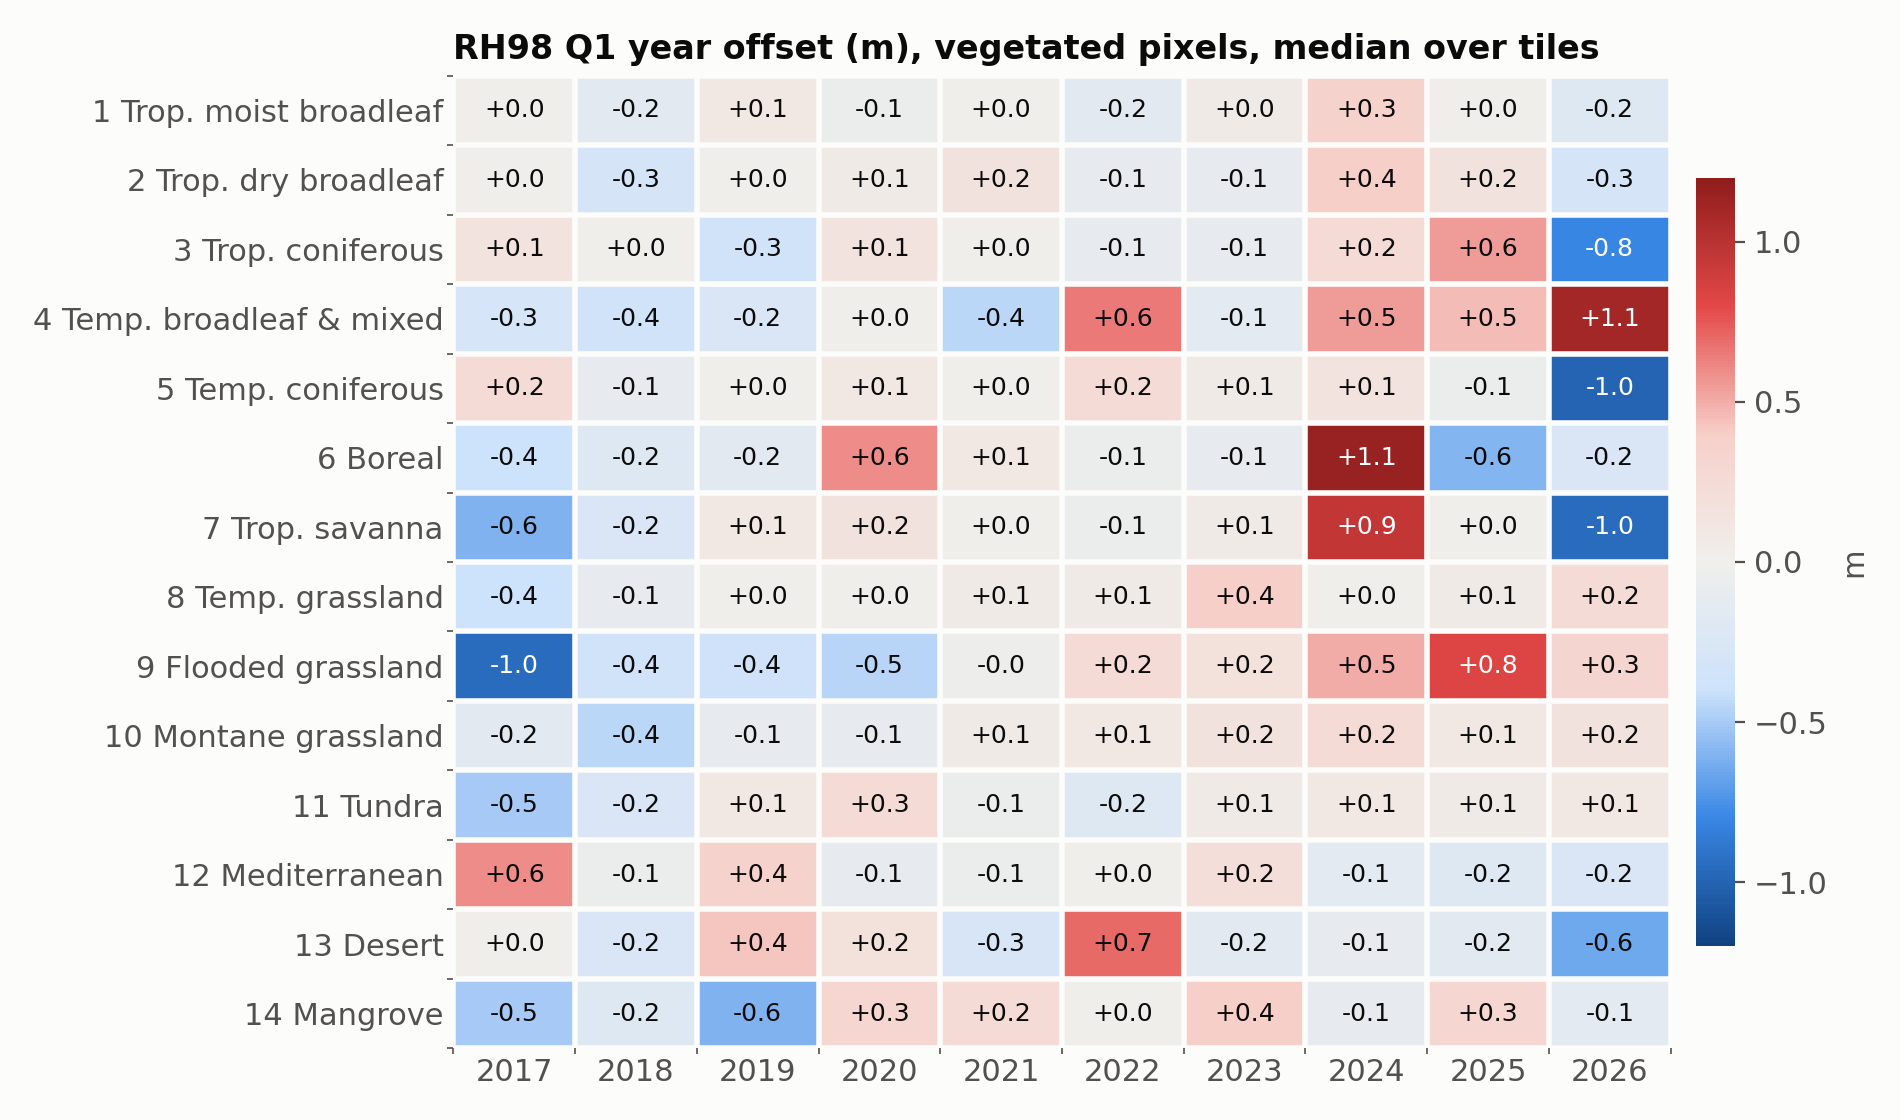
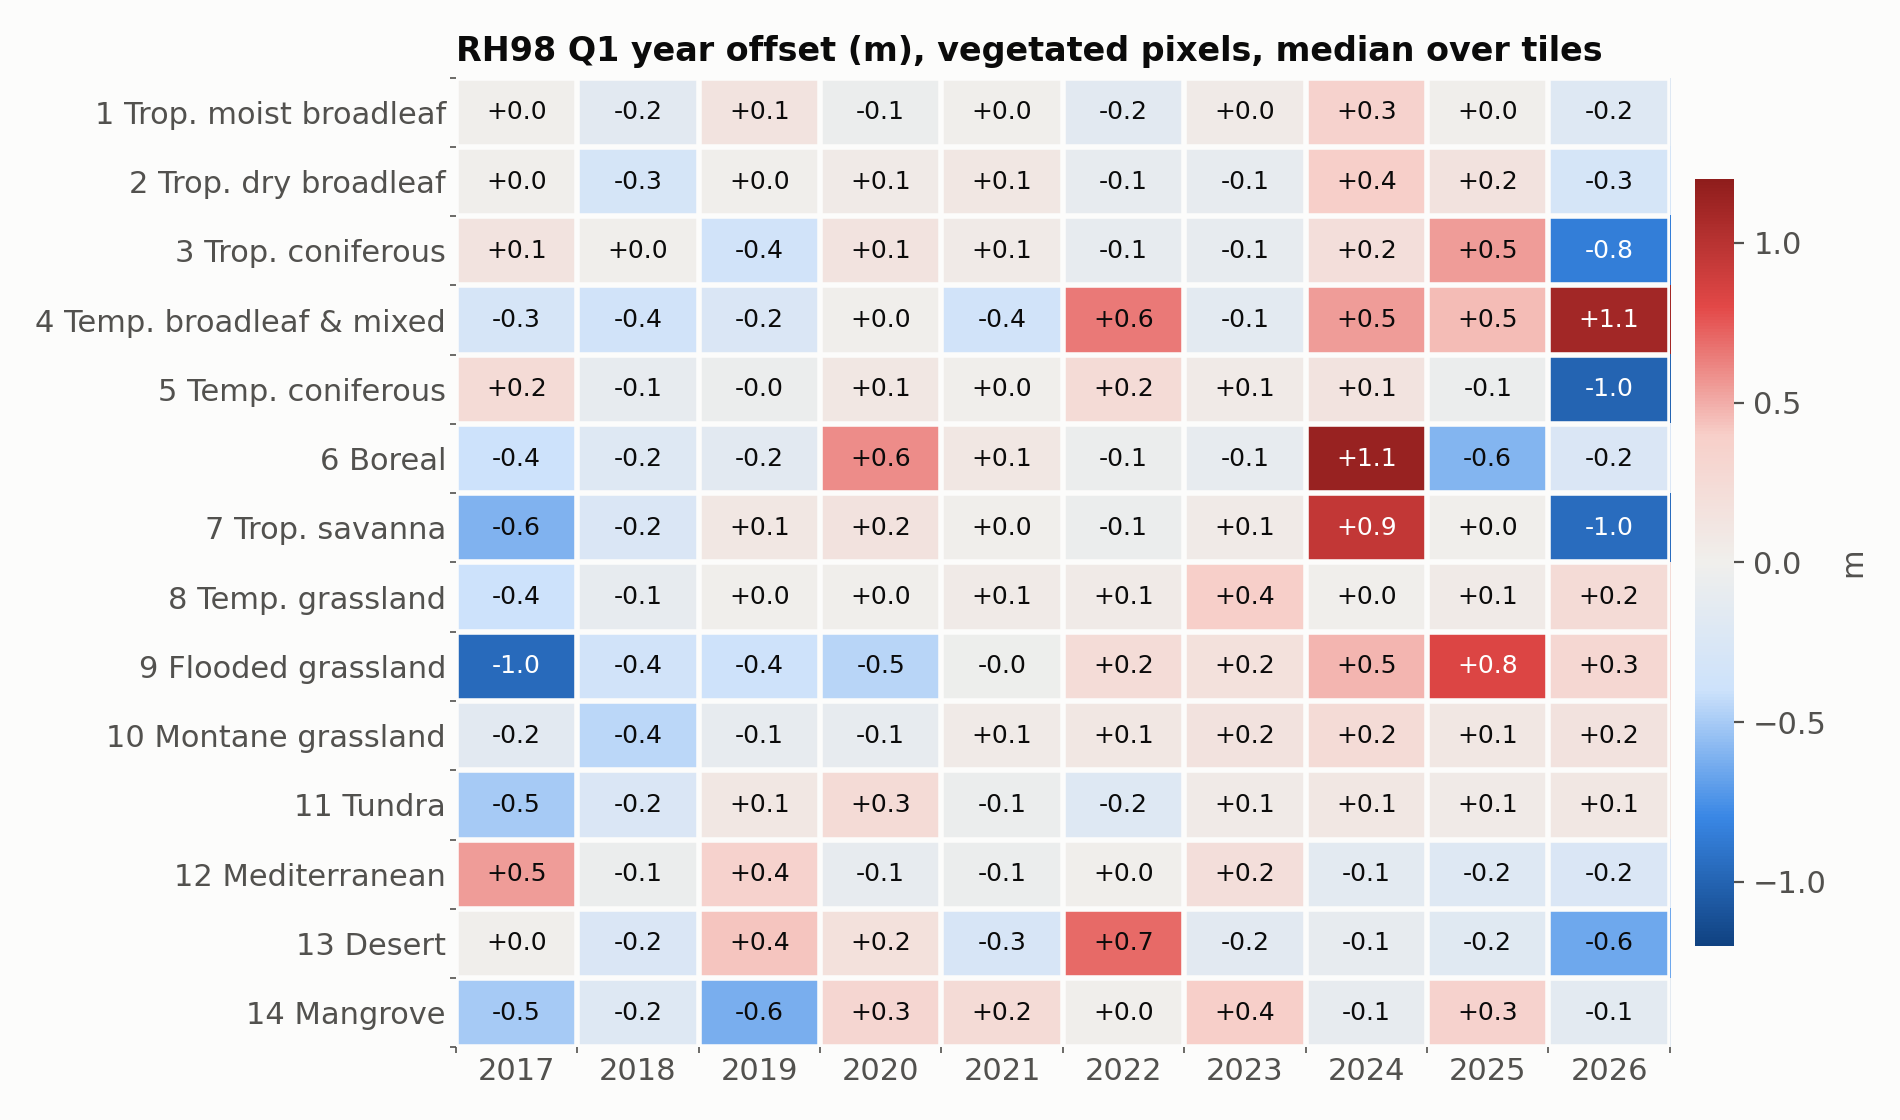
VSM stability: rerun 2019/2021 with fixed harmonization
- 24 affected tile-years re-predicted; reflectance re-read with item_has_boa_offset
  (same per-product rule as harmonize_to_old) instead of the acquisition-date rule
- year-to-year change: drop the now obsolete harmonize-affected flag
- summaries and figs 1-10 regenerated; report numbers updated

diff --git a/tools/vsm_stability.py b/tools/vsm_stability.py
@@ -1145,33 +1145,22 @@ def summarize_neighbour_change(pixels_dir: str, values_dir: str, screen_file: st
     print(f'-> {out_file}')
 
 
-def _harmonize_affected(images_file) -> set:
-    """(tile, year) whose selected images include reprocessed pre-2022 products (baseline >= 04.00),
-    i.e. inputs hit by the old harmonize_to_old (stability_images.tsv of count_stability_images)."""
-    if images_file is None:
-        return set()
-    im = pd.read_csv(Path(images_file).expanduser(), sep='\t', dtype={'baselines': str})
-    im = im[(im.year < 2022) & im.baselines.fillna('').str.contains(r'0[45]\.')]
-    return set(zip(im.tile, im.year))
-
-
 def summarize_year_to_year_change(pixels_dir: str, values_dir: str, screen_file: str, out_file: str,
-                                  disturbance_dir: str = None, images_file: str = None, years=range(2017, 2026),
+                                  disturbance_dir: str = None, years=range(2017, 2026),
                                   vegetated_rh98: float = 5., min_pixels: int = 100, forest_tree_share: float = 0.4,
                                   exclude_tile_years=(), **kwargs):
     """Year-to-year change of the yearly RH98 Q1 at fixed pixels: per tile and year t, median over
     vegetated (median over all years >= vegetated_rh98), undisturbed pixels of (t - (t-1)), whatever
     their WWF biome (the tile's majority biome is only a label).
     Is 2023 -> 2024 larger than the other one-year changes? Forest = WorldCover tree share of the
-    tile >= forest_tree_share (screen_ndvi_anomaly_tiles). `affected` marks changes that involve a
-    tile-year hit by the old harmonize rule (images_file); `release` those that involve 2020 (taken
-    from the released product, not from the current code). exclude_tile_years ('<tile>_<year>')
+    tile >= forest_tree_share (screen_ndvi_anomaly_tiles). `release` marks changes that involve 2020
+    (taken from the released product, not from the current code). exclude_tile_years ('<tile>_<year>')
     drops the changes into and out of that tile-year.
       <out_file> (tsv): tile, year (end of the change), biome, tree_share, forest, n_pixels, change,
-                        affected, release"""
+                        release"""
     vd = Path(values_dir).expanduser()
     scr = pd.read_csv(Path(screen_file).expanduser(), sep='\t').set_index('tile')
-    bad, skip, years = _harmonize_affected(images_file), set(exclude_tile_years), list(years)
+    skip, years = set(exclude_tile_years), list(years)
     rows = []
     for f in sorted((vd / 'pixel_values' / str(years[-1])).glob('*.parquet')):
         tile = f.stem
@@ -1195,13 +1184,12 @@ def summarize_year_to_year_change(pixels_dir: str, values_dir: str, screen_file:
                 continue
             rows.append(dict(tile=tile, year=y1, biome=biome, tree_share=ts, forest=bool(ts >= forest_tree_share),
                              n_pixels=int(veg.sum()), change=float(np.median(q[i, veg] - q[i - 1, veg])),
-                             affected=(tile, y0) in bad or (tile, y1) in bad, release=2020 in (y0, y1)))
+                             release=2020 in (y0, y1)))
     out = pd.DataFrame(rows)
     out_file = Path(out_file).expanduser()
     out_file.parent.mkdir(parents=True, exist_ok=True)
     out.to_csv(out_file, sep='\t', index=False)
-    for name, d in (('forest tiles', out[out.forest]), ('forest tiles, not harmonize-affected', out[out.forest & ~out.affected]),
-                    ('all tiles', out)):
+    for name, d in (('forest tiles', out[out.forest]), ('all tiles', out)):
         g = d.groupby('year').change
         print(f'{name} (change from the year before; 2020 = released product):')
         print(pd.DataFrame(dict(median=g.median(), q25=g.quantile(.25), q75=g.quantile(.75),
@@ -1439,7 +1427,8 @@ def _read_overview(href, res, tries=4):
 def _reflectance_tile_year(tile, year, ids, pts, out_file, res=80):
     """Reflectance of the selected images at the points, read from the COG overviews at `res` m
     (bands without such an overview at their native resolution). Harmonized as in the deploy
-    (acquisitions from 2022-01-25: clip at 1000, minus 1000)."""
+    (products with BOA_ADD_OFFSET, see item_has_boa_offset: clip at 1000, minus 1000)."""
+    from download.core.utils import item_has_boa_offset
     import planetary_computer
     import pystac_client
     api = pystac_client.Client.open('https://planetarycomputer.microsoft.com/api/stac/v1',
@@ -1450,7 +1439,7 @@ def _reflectance_tile_year(tile, year, ids, pts, out_file, res=80):
         it = items.get(iid)
         if it is None:
             continue
-        new = iid.split('_')[2][:8] >= '20220125'
+        new = item_has_boa_offset(it)
         try:
             vals = {}
             for b in S2_BANDS:

diff --git a/download/core/utils.py b/download/core/utils.py
@@ -749,6 +749,18 @@ def has_boa_offset(data) -> np.ndarray:
     return by_date
 
 
+def item_has_boa_offset(item) -> bool:
+    """has_boa_offset for one pystac Item (same rule and order): its 's2:processing_baseline',
+    else the processing time at the end of its id, else its acquisition date."""
+    pb = pd.to_numeric(item.properties.get('s2:processing_baseline'), errors='coerce')
+    if np.isfinite(pb):
+        return bool(pb >= BOA_OFFSET_BASELINE)
+    proc = item.id.split('_')[-1][:8]
+    if proc.isdigit() and len(proc) == 8:
+        return proc >= BOA_OFFSET_PROCESSED_FROM
+    return item.id.split('_')[2][:8] >= BOA_OFFSET_ACQUIRED_FROM.strftime('%Y%m%d')
+
+
 def harmonize_to_old(data):
     """
     Harmonize Sentinel-2 L2A data with BOA_ADD_OFFSET (processing baseline >= 04.00) to the old scale:

diff --git a/docs/reports/vsm_stability_2017_2026.md b/docs/reports/vsm_stability_2017_2026.md
@@ -110,8 +110,8 @@ We read the 12 bands of every selected image at the sample pixels (80 m COG over
 
 | Biomes 1–7, 9 (median over tiles) | 2017–2021 | 2022–2023 | 2024 | 2025 |
 |---|---|---|---|---|
-| Red (B04) | +1 to +9 | 0 to +1 | −12 | −13 |
-| SWIR2 (B12) | 0 to +4 | +1 to +3 | −12 | −21 |
+| Red (B04) | 0 to +9 | 0 to +1 | −12 | −13 |
+| SWIR2 (B12) | 0 to +4 | +1 to +5 | −12 | −21 |
 | NDVI | −0.004 to +0.000 | −0.001 to 0.000 | +0.006 | +0.007 |
 | RH98 offset (m) | −0.3 to +0.1 | −0.1 to 0.0 | +0.4 | +0.1 |
 
@@ -121,7 +121,7 @@ We read the 12 bands of every selected image at the sample pixels (80 m COG over
 
 - **Height offsets follow greenness, in every year.** Across tile-years, darker visible and SWIR bands and higher NDVI go with a higher RH98 (Spearman −0.4 to −0.55 for B02–B05, B11 and B12; +0.45 for NDVI; NIR ≈ 0). A regression fitted on the other years predicts the tile offsets of a left-out year with r = 0.4–0.66 (2024: 0.63).
 - **2024 is greener in the forest and savanna biomes.** The strongest tile, 49UFS (Boreal, +2.7 m), has NDVI +0.18 and red −0.014.
-- **Greenness explains only about a third of 2024.** Fitted on the other years, the regression predicts +0.09 m for 2024 against +0.25 m observed. The residual of +0.16 to +0.27 m (depending on bands and mask) is the largest of all years. 2025 is as green as 2024 but its offset is only +0.1 m.
+- **Greenness explains only about a third of 2024.** Fitted on the other years, the regression predicts +0.10 m for 2024 against +0.25 m observed. The residual of +0.15 to +0.27 m (depending on bands and mask) is the largest of all years. 2025 is as green as 2024 but its offset is only +0.1 m.
 - **No sign of a sensor effect.** The S2A − S2B difference in 2024 is within the range of the other years, and the sun zenith angle hardly relates to the offset (Spearman 0.11).
 - **Limits of this check:** these are yearly medians of 80 m reflectance, while the prediction is the median of per-image predictions at 10 m. Differences between single images, or in fine spatial texture, are not captured.
 
@@ -164,7 +164,7 @@ We checked whether the 2024 images of the strong tiles carry a radiometric shift
 
 *Figure 8. Top: S2 same-season offsets against MODIS Terra (MOD13Q1, 250 m, 16-day) anomalies per tile-year, and the RH98 year offset against the MODIS NDVI anomaly (2024 in orange). Bottom: MODIS NDVI and ERA5-Land growing-season 2 m temperature and 0–7 cm soil moisture for the strong tiles. MODIS: median over up to 300 vegetated sample pixels, minus the same composite in 2018–2025, median over the growing months. 58 tiles; 11 tiles have fewer than 20 vegetated pixels.*
 
-- **MODIS confirms the anomaly.** 2024 is the greenest year of 2018–2025 in MODIS NDVI on 49UFS (+0.033), 49UDT (+0.034) and 33PZL (+0.017); 19TFN is not (rank 4 of 8). S2 and MODIS agree per tile-year in SWIR2 (Spearman 0.51) and less in NIR (0.26).
+- **MODIS confirms the anomaly.** 2024 is the greenest year of 2018–2025 in MODIS NDVI on 49UFS (+0.033), 49UDT (+0.034) and 33PZL (+0.017); 19TFN is not (rank 4 of 8). S2 and MODIS agree per tile-year in SWIR2 (Spearman 0.50) and less in NIR (0.26).
 - **Greener tile-years are higher.** Across all tile-years the RH98 offset rises with the MODIS NDVI anomaly (Spearman 0.28). In 2024 the 20 tiles above +0.5 m have MODIS NDVI +0.005 and S2 NDVI +0.017; the 21 tiles within ±0.2 m have +0.001 and −0.001.
 - **2024 was warm, not wet.** The growing season of the Boreal tiles was the warmest of 2018–2025 (+0.9 to +1.1 K; median over all tiles +0.6 K). 49UFS had 26 % less precipitation and the lowest soil moisture. The darker SWIR2 therefore points to more green leaf cover rather than wetter ground.
 
@@ -214,7 +214,7 @@ The 13 tiles of the single-image and input checks were partly chosen for their l
 - **19TFN 2025 in the main run is wrong.** The re-run with the same 20 images gives a median RH98 of 14.8 m instead of 10.6 m (2023–2024: 16 m), so its offset of −3.65 m (Figure 3) is an artefact of that run; the cause is unknown, as its log was not kept. The other tile-years of the main run were not re-run.
 - **The single-image and spectral checks rest on 13 tiles**, 5 of them chosen for the largest 2024 offsets. The [wider test on 60 tiles](#wider-test-on-60-tiles) covers only yearly predictions of 2023–2025, without single images or reflectance, so the cause of its general rise is not known.
 - **MODIS Terra drifts in 2024–2025:** its NIR and SWIR2 fall over all tiles (2025: −0.008, −0.009). The strong-tile anomalies of 2024 are larger, and NDVI is less affected, but MODIS NIR/SWIR2 values of 2024–2025 should be read with care. ERA5-Land is a ~9 km mean over the sample area.
-- **Harmonization missed reprocessed pre-2022 products.** `harmonize_to_old` (Planetary Computer example) subtracted the 1000 offset by acquisition date only. 33 selected images of 2019 (March) and 2021 (mostly December) are reprocessed products with baseline 04.00/05.00 and kept the offset, i.e. reflectance 0.1 too high; 2020 and 2022 onwards are not affected. Fixed on 2026-11-09 (decided per product by baseline or processing time); the 2019 and 2021 runs here used the old rule.
+- **Harmonization missed reprocessed pre-2022 products.** `harmonize_to_old` (Planetary Computer example) subtracted the 1000 offset by acquisition date only. 33 selected images of 2019 (March) and 2021 (mostly December) are reprocessed products with baseline 04.00/05.00 and kept the offset, i.e. reflectance 0.1 too high; 2020 and 2022 onwards are not affected. Fixed on 2026-11-09 (decided per product by baseline or processing time). The 24 affected tile-years (2019: 6, 2021: 18) were re-predicted and their reflectance re-read with the fix on 2026-11-11; all numbers and figures here use the fixed values. The fix changed the tile-year median RH98 by at most 0.4 m and the biome year offsets by at most 0.1 m.
 - Year offsets cannot separate real change (growth, disturbance) from input-driven shifts. The median over pixels limits the effect of local disturbance but not of biome-wide trends.
 
 ## Reproduction
